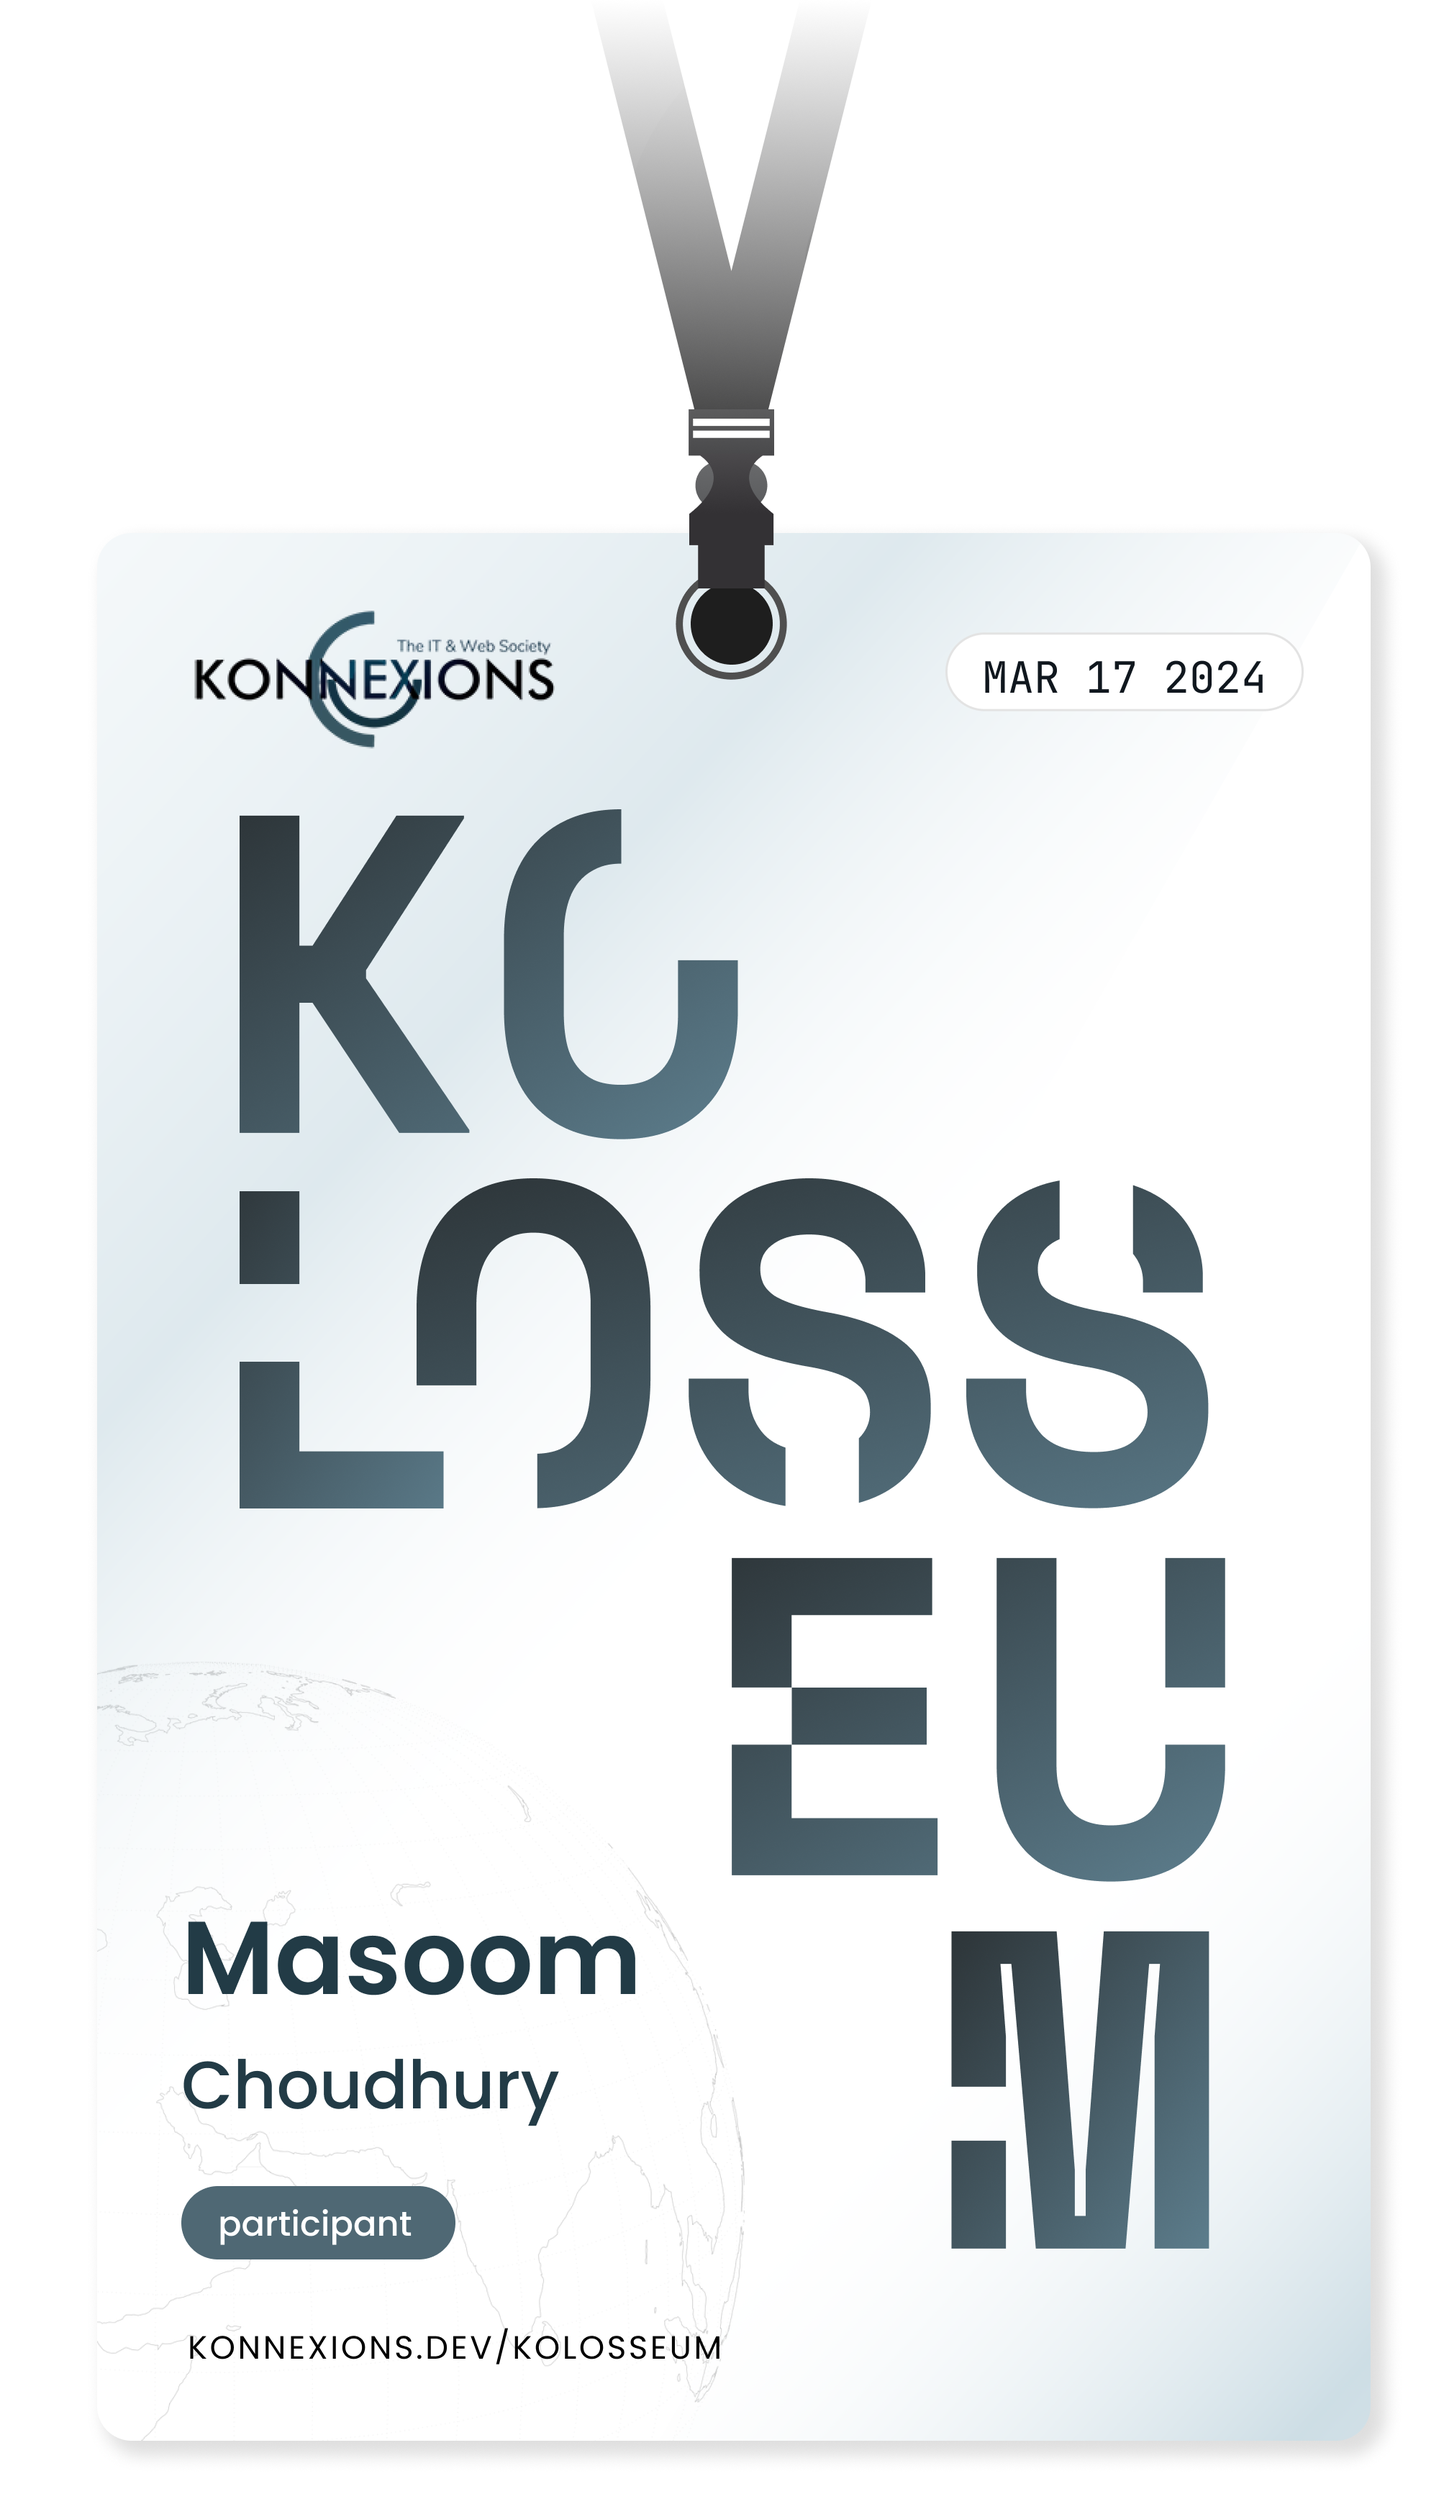
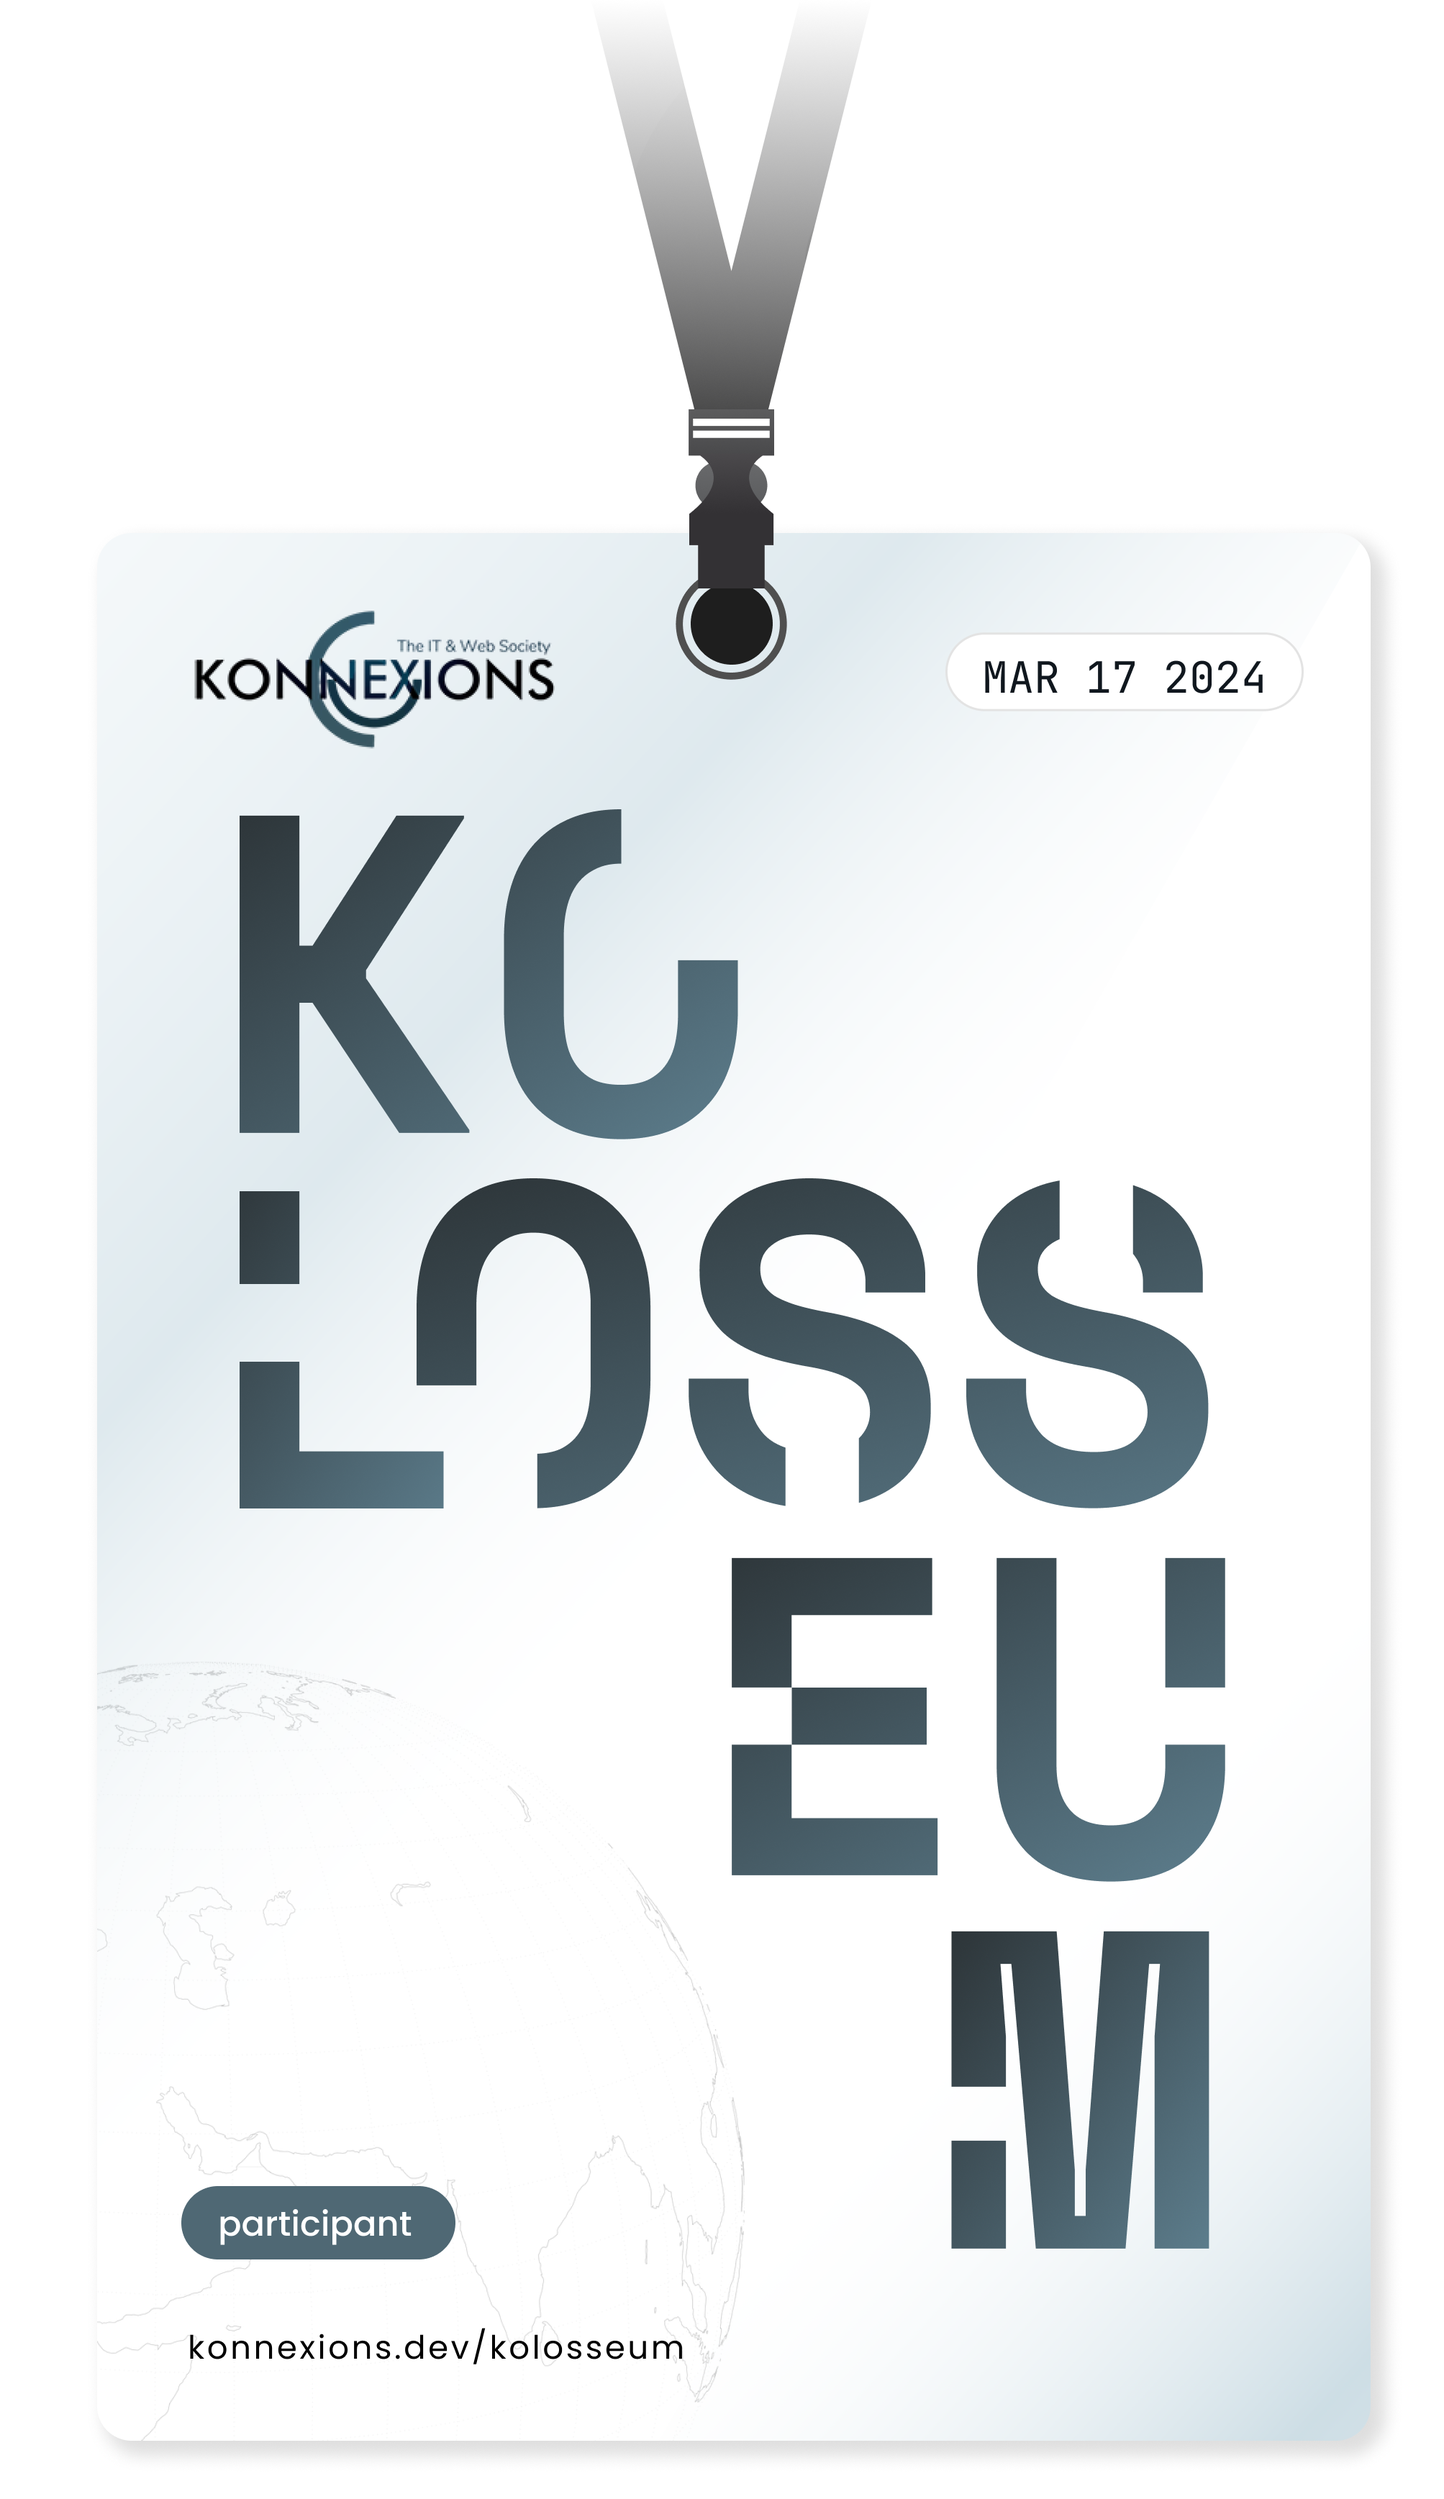
Add VirtualCard component to IdCards

Changed region(s): [[0.1236, 0.7461, 0.4634, 0.8394], [0.1545, 0.9326, 0.4943, 0.9637]]

diff --git a/app/attendee/[id]/page.js b/app/attendee/[id]/page.js
@@ -4,6 +4,18 @@ import Link from "next/link";
 import React from "react";
 
 function IdCards() {
+  const VirtualCard = ({ firstName, lastName }) => {
+    return (
+      <div className="w-[300px] md:w-[350px] relative">
+        <img src="/idcard.png" className="h-full w-full" alt="" />
+        <div className="absolute bottom-[90px] left-11">
+          <h1 className="text-xl font-semibold font-poppins">{firstName}</h1>
+          <p className="font-poppins text-neutral-600">{lastName}</p>
+        </div>
+      </div>
+    );
+  };
+
   return (
     <div>
       <div className="max-w-7xl mx-auto rounded-3xl mt-6 md:mt-10 lg:mt-16 overflow-hidden px-4 md:px-10 pb-20">
@@ -39,13 +51,13 @@ function IdCards() {
         </div>
         <div className="w-full h-full bg-white grid gap-y-10 md:gap-y-10 md:gap-x-6 grid-cols-1 md:grid-cols-2 lg:grid-cols-3 max-w-6xl mx-auto md:mt-10 mt-12 lg:mt-20">
           <div className="flex justify-center">
-            <img src="/idcard.png" className="w-[300px] md:w-[350px]" alt="" />
+            <VirtualCard firstName="Priyangsu" lastName="Banerjee" />
           </div>
           <div className="flex justify-center">
-            <img src="/idcard.png" className="w-[350px] md:w-[350px]" alt="" />
+            <VirtualCard firstName="Masoom" lastName="Choudhury" />
           </div>
           <div className="flex justify-center md:col-span-2 lg:col-span-1">
-            <img src="/idcard.png" className="w-[350px] md:w-[350px]" alt="" />
+            <VirtualCard firstName="Rahul" lastName="Choudhury" />
           </div>
         </div>
       </div>

diff --git a/app/globals.css b/app/globals.css
@@ -1,4 +1,4 @@
-@import url("https://fonts.googleapis.com/css2?family=Jost:ital,wght@0,100..900;1,100..900&display=swap");
+@import url("https://fonts.googleapis.com/css2?family=Inter:wght@100..900&family=Poppins:ital,wght@0,100;0,200;0,300;0,400;0,500;0,600;0,700;0,800;0,900;1,100;1,200;1,300;1,400;1,500;1,600;1,700;1,800;1,900&display=swap");
 @tailwind base;
 @tailwind components;
 @tailwind utilities;

diff --git a/tailwind.config.js b/tailwind.config.js
@@ -16,6 +16,7 @@ module.exports = {
       },
       fontFamily: {
         jost: ["Jost", "sans-serif"],
+        poppins: ["Poppins", "sans-serif"],
       },
     },
   },
